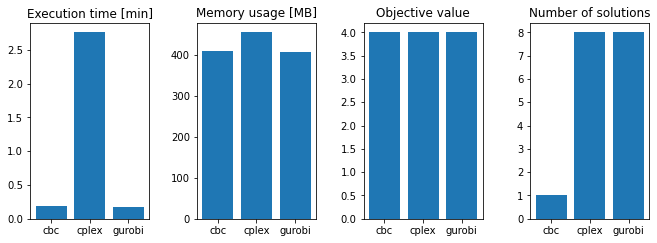
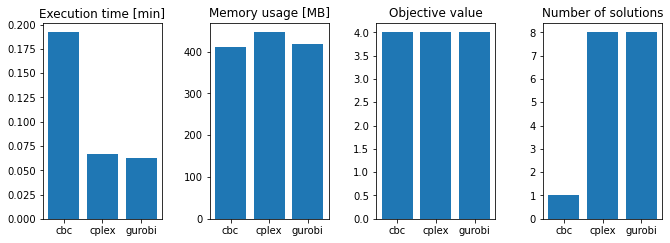
Correction to README.

diff --git a/README.md b/README.md
@@ -28,8 +28,8 @@ snakemake --profile Slurm --latency-wait 60"
 
 
 ```python
-%matplotlib notebook
-# %matplotlib inline
+# %matplotlib notebook
+%matplotlib inline
 %load_ext rpy2.ipython
 from IPython.display import HTML, display
 import matplotlib.pyplot as plt
@@ -98,11 +98,7 @@ nx.draw(g, pos, ax, with_labels=True)
 ```
 
 
-    <IPython.core.display.Javascript object>
-
-
-
-<div id='de46c0f7-4f24-4fd3-a43d-d4abde23d55b'></div>
+![png](main.py_files/main.py_3_0.png)
 
 
 
@@ -123,18 +119,14 @@ axs[3].bar(solvers, [logs[x]["solution_count"] for x in solvers])
 ```
 
 
-    <IPython.core.display.Javascript object>
-
-
-
-<div id='788a7511-07ff-42eb-ba03-ade29cd95b24'></div>
-
-
-
 
 
     <BarContainer object of 3 artists>
 
+
+
+
+![png](main.py_files/main.py_4_1.png)
 
 
 
@@ -185,18 +177,14 @@ fig.suptitle("Erdos networks")
 ```
 
 
-    <IPython.core.display.Javascript object>
-
-
-
-<div id='e1251504-c9c0-49d9-a223-a0abd94f2b0f'></div>
-
-
-
 
 
     Text(0.5, 0.98, 'Erdos networks')
 
+
+
+
+![png](main.py_files/main.py_9_1.png)
 
 
 ## Powerlaw networks
@@ -222,16 +210,12 @@ fig.suptitle("Powerlaw networks")
 ```
 
 
-    <IPython.core.display.Javascript object>
-
-
-
-<div id='1c600e87-f4ac-4b74-a88e-88355a3d967c'></div>
-
-
-
 
 
     Text(0.5, 0.98, 'Powerlaw networks')
 
+
+
+
+![png](main.py_files/main.py_11_1.png)
 

diff --git a/main.py.md b/main.py.md
@@ -28,8 +28,8 @@ snakemake --profile Slurm --latency-wait 60"
 
 
 ```python
-%matplotlib notebook
-# %matplotlib inline
+# %matplotlib notebook
+%matplotlib inline
 %load_ext rpy2.ipython
 from IPython.display import HTML, display
 import matplotlib.pyplot as plt
@@ -98,11 +98,7 @@ nx.draw(g, pos, ax, with_labels=True)
 ```
 
 
-    <IPython.core.display.Javascript object>
-
-
-
-<div id='de46c0f7-4f24-4fd3-a43d-d4abde23d55b'></div>
+![png](main.py_files/main.py_3_0.png)
 
 
 
@@ -123,18 +119,14 @@ axs[3].bar(solvers, [logs[x]["solution_count"] for x in solvers])
 ```
 
 
-    <IPython.core.display.Javascript object>
-
-
-
-<div id='788a7511-07ff-42eb-ba03-ade29cd95b24'></div>
-
-
-
 
 
     <BarContainer object of 3 artists>
 
+
+
+
+![png](main.py_files/main.py_4_1.png)
 
 
 
@@ -185,18 +177,14 @@ fig.suptitle("Erdos networks")
 ```
 
 
-    <IPython.core.display.Javascript object>
-
-
-
-<div id='e1251504-c9c0-49d9-a223-a0abd94f2b0f'></div>
-
-
-
 
 
     Text(0.5, 0.98, 'Erdos networks')
 
+
+
+
+![png](main.py_files/main.py_9_1.png)
 
 
 ## Powerlaw networks
@@ -222,16 +210,12 @@ fig.suptitle("Powerlaw networks")
 ```
 
 
-    <IPython.core.display.Javascript object>
-
-
-
-<div id='1c600e87-f4ac-4b74-a88e-88355a3d967c'></div>
-
-
-
 
 
     Text(0.5, 0.98, 'Powerlaw networks')
 
+
+
+
+![png](main.py_files/main.py_11_1.png)
 
